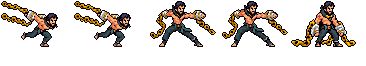
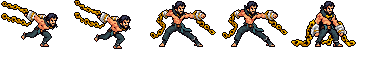
塞拉斯动作补帧：E 冲刺两帧 1 个姿势 -> 2 个（第二帧拖在身后的两条链子一起甩起来；E 5 帧 3 姿势 -> 5 帧 4 姿势）
用户：「有的动画感觉只有一帧 不如oppi的地方都要补 参考联盟的动画」「能改就想办法改 全都要改」。
E 逃脱的冲刺（skill2 前两帧，各 90 毫秒）是同一张冲刺画往前挪一格，高清帧里两帧一模一样。
没有新画，没有交给 Codex，没有用图像模型。数法：「几帧，其中几个不同的姿势」。

- tools/art/rig_sylas.py（他的图集就是它写的：干净的树上 rig -> ppu_restyle -> ppu_hd -> hero_reels 四步逐文件复现）：CHAIN 加冲刺画
  dash (22, 0, 26)：手铐左边 22 列以内、0-26 行只有两条拖在身后的链子；冲刺第二帧 wave=6：和跑步、偷来的大招同一个
  travelling 波（整列抬起，链尾 4 格，连着手铐那段不动），放在他身后，链子以外的格子逐格查过不变（IB.kept）
- 时间：每帧时长照旧（90 90 130 130 127，掷出还是从 180 毫秒起）；技能数据没改，tools/kit 和 .data_champion 没碰
- 普攻、Q、W、R 偷取、阵亡里拿着不动的那几对帧没动：链子在那些画里竖着垂下（掷出、挥鞭）或者躺在地上（砸地、跪下），
  整列抬会把链子从手上、从地上拉开；要动得给垂着的链子另做按行摆的波，这次没做
- 别的 36 个标签（连同 hd_、lo_）逐帧像素、时长都没变，待机逐帧不变；选人卡片还是普攻、Q、E、R（38 帧，15957 毫秒），
  E 那段第二帧换成甩链子的这张；tools/art/hero_reels.json 不用改
- 图集和 fanim 重新生成：2019x643 不变，选人格子用的那张 0.26 -> 0.31 MiB
- docs/heroes/league_sylas.md「开发记录」加一行

查过：hero_reels --check --hero sylas（0）；compare_sheets（36 个标签逐帧不变，E 总时长不变、180 的边界在）；ui_sheets；
league_viego_soul make_override（三个文件逐字节不变）和 --check；league_sylas make_override --check；gen_hero_docs --check；
cargo test -p hd_engine -p league_main -p league_viego_soul -p league_sylas；在这个提交上重跑四步，git status 是空的。

diff --git a/tools/art/rig_sylas.py b/tools/art/rig_sylas.py
@@ -90,7 +90,7 @@ def trousers_mid(d):
 # leaps of the stolen ult (the chain flung up behind him). CHAIN: pose -> (that column, the rows the chain's squares
 # lie in there - the pull's trailing foot is above them).
 CHAIN = {"run1": (14, 0, 99), "run2": (14, 0, 99), "run3": (14, 0, 99), "run4": (14, 0, 99),
-         "pull": (18, 28, 99), "leap": (14, 0, 20)}
+         "pull": (18, 28, 99), "leap": (14, 0, 20), "dash": (22, 0, 26)}
 AMP = 4
 VPAD = 8
 
@@ -195,8 +195,9 @@ def frames_all(F):
     # the ground in front)
     out["skill"] = [q("leap", lift=3), q("slam", whole=(-8, 0)), q("slam", whole=(-8, 0)), p()]
     # E Abscond (League's Sylas_Spell3_Dash: rushing forward low, the chains streaming) then Abduct (Sylas_Spell4_Cast-
-    # like: planted, the far arm thrust forward with the chain)
-    out["skill2"] = [q("dash", whole=(5, 0)), q("dash", whole=(6, 0)), q("throw"), q("throw"), p()]
+    # like: planted, the far arm thrust forward with the chain); the dash's second frame (one drawing a square on until
+    # 2026-11-14) has both streaming chains whipping behind him (CHAIN: the wave's step 6, the tips 4 rows up)
+    out["skill2"] = [q("dash", whole=(5, 0)), q("dash", whole=(6, 0), wave=6), q("throw"), q("throw"), p()]
     # Abduct's pull (League's Sylas_Spell3_Bhit_Cast: flying forward level after his chain)
     # (the trailing chain's tip swung down, then up: CHAIN)
     out["skill2_pull"] = [q("pull", whole=(-6, 0), lift=3, wave=2), q("pull", whole=(-6, 0), lift=2, wave=6)]

diff --git a/docs/heroes/league_sylas.md b/docs/heroes/league_sylas.md
@@ -105,6 +105,7 @@
 | 图标 | 官方技能图标（锁链鞭击、潜掠/强掳、其人之道，另有弑君突刺和破敌禁法），从本地客户端取 |
 | 修正（偷来的大招，附加包 0.2.49，2026-11-02） | 主包[茂凯](league_maokai.md)的树苗、[提莫](league_teemo.md)的蘑菇加了「他死后不再触发」的 `alive()`，塞拉斯偷来的这两个大招里也带着它们，副本重新生成（`make_override.py`） |
 | 动作补帧（2026-11-14） | 用户：「还有有的动画感觉只有一帧 不如oppi的地方都要补 参考联盟的动画」「动画你觉得少的地方就想办法补」。对照表里他的跑步只有 4 帧（Codex 照骨架画的四张跑姿，每张 150 毫秒）；E 被拉过去飞的那段 2 帧是同一张画挪了一格，偷来的近战大招扑上去的 4 帧是同一张画挪高挪低。没有新画，也没交给 Codex：跑姿、腿和身子都是原来那几张，只让远处那只手拖在身后的金链子动起来——链子从挂在镣铐上那段往外整列整列地抬起 / 放下，一道波顺着链子往尾巴传（尾巴最多 4 格，离手最近那段不动），链子以外的格子逐格不变、不缩放（[`tools/art/rig_sylas.py`](../../tools/art/rig_sylas.py) 的 CHAIN）。下面写的是「几帧，其中几个不同的姿势」。**跑步** 4 帧（4 个姿势）→ 8 帧，其中 8 个：每张跑姿放两帧（75 + 75 毫秒），链子接着往下甩，一圈还是 600 毫秒；腿和身子的高低还是每 150 毫秒换一次，跳动的频率没变（anim_bob 每帧的上下边逐格一样）。**E 被拉过去飞** 2 帧（1 个）→ 2 帧，其中 2 个：拖在身后的链子先往下甩、再往上甩。**偷来的近战大招扑上去**（附加包的 `ult_dash`）4 帧（1 个）→ 4 帧，其中 4 个：甩在身后的链子跟着摆。**偷来的大招**（`ult_cast`）跳到最高那帧链子跟着甩，5 帧里 3 个姿势 → 4 个。每个动作的帧数、每帧时长和总时长都没变（跑步除外：8 × 75 还是 600），普攻的数据另一边在测，没碰；技能数据没改。普攻、Q、W、E、R 偷取、受击、阵亡、待机逐帧没变。每帧 3 倍、链子 4–5 倍看过。`hero_reels.json` 不用改，待机和选人卡片不变。图集 2042×649 → 2019×643。游戏里还没看过 |
+| 动作补帧（2026-11-14，E 冲刺） | 用户：「有的动画感觉只有一帧 不如oppi的地方都要补 参考联盟的动画」「能改就想办法改 全都要改」。E 逃脱的冲刺（`skill2` 前两帧，各 90 毫秒）原来是同一张冲刺画往前挪一格（高清帧里两帧一模一样）。现在第二帧里拖在身后的两条链子一起甩起来：和跑步、偷来的大招一样，链子离开手铐以后那段整列整列地抬起（[`tools/art/rig_sylas.py`](../../tools/art/rig_sylas.py) 的 `CHAIN`，一道波顺着链子传，链尾抬 4 格，连着手铐那段不动），放在他身后，链子以外的格子逐格查过不变、不缩放。下面写的是「几帧，其中几个不同的姿势」：**E** 5 帧（3 个）→ 5 帧，其中 4 个，每帧时长照旧（90 90 130 130 127，掷出还是从 180 毫秒起）。普攻、Q、W、R 偷取、阵亡里拿着不动的那几对帧没动：链子在那些画里是竖着垂下或者躺在地上的，整列抬会把链子从手上、从地上拉开。别的 36 个标签（连同 hd_、lo_）逐帧像素、时长都没变，待机逐帧不变；选人卡片还是普攻、Q、E、R，E 那段第二帧换成了甩链子的这张。每帧 3 倍、链子 8 倍看过。游戏里还没看过 |
 
 重新生成（素材来自本机的英雄联盟客户端，音频不进仓库）：
 
